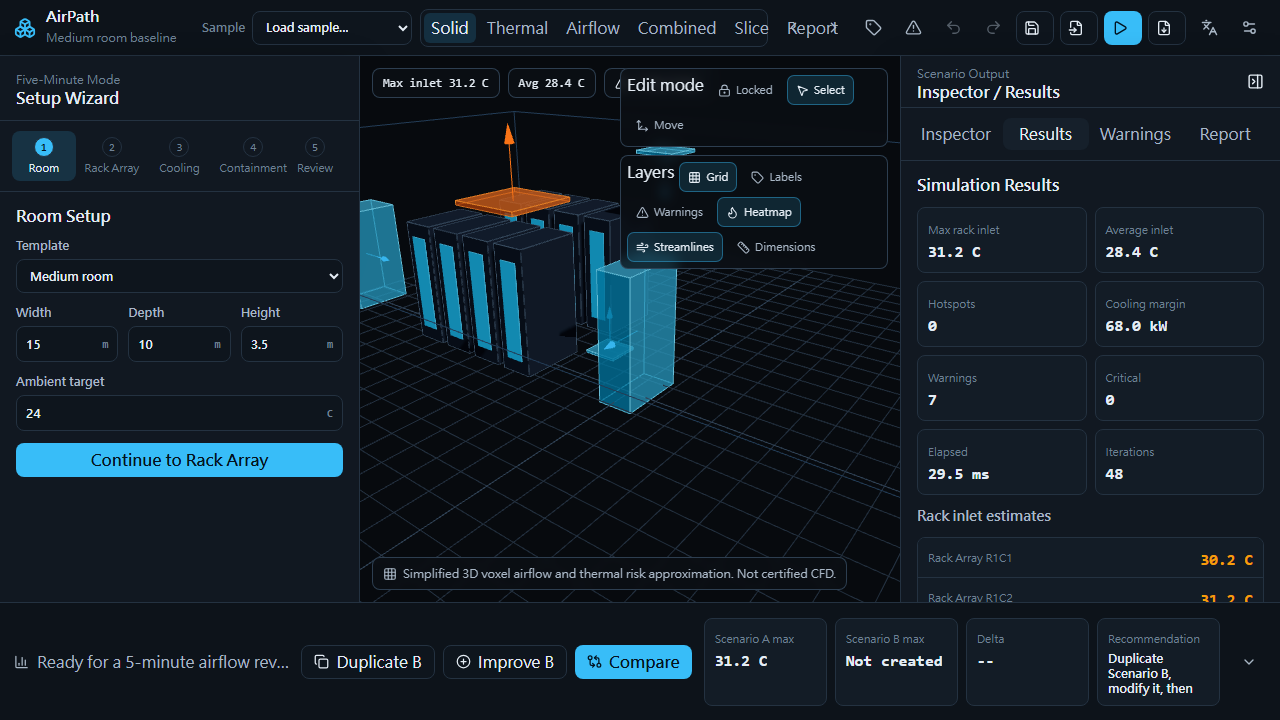
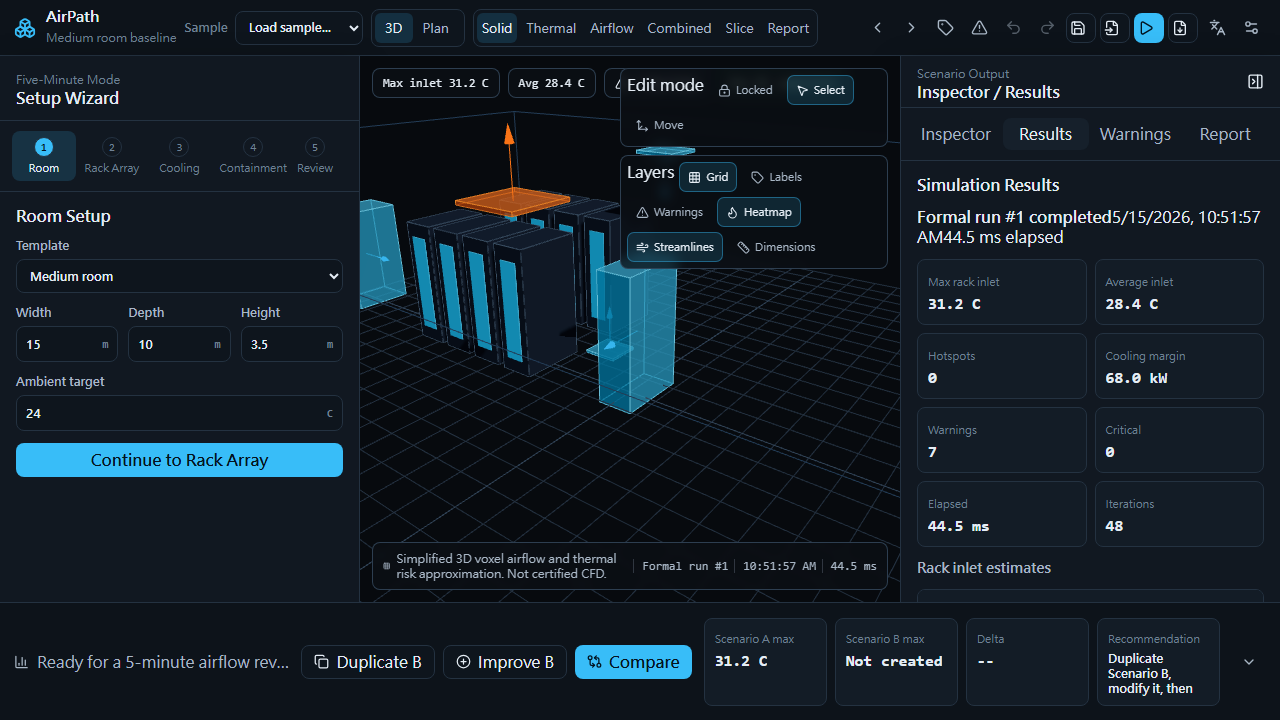
Document v0.5 evidence and handoff

diff --git a/engineering-memos/024_v0_5_case_matrix.md b/engineering-memos/024_v0_5_case_matrix.md
@@ -7,45 +7,47 @@ Area: Evidence / Browser Acceptance / Product QA
 
 ## 1. Purpose
 
-This matrix defines the v0.5 evidence cases for layout authoring, rack semantics, simulation trust, slice heatmap, and thermal visualization. Cases must be operated through the UI where feasible, with screenshots captured under `engineering-memos/screenshots/v0_5/`.
+This matrix defines and records the v0.5 evidence cases for layout authoring, rack semantics, simulation trust, slice heatmap, and thermal visualization. Cases were operated through the UI with Playwright fallback browser acceptance, with screenshots captured under `engineering-memos/screenshots/v0_5/`.
 
 ## 2. Required Case Matrix
 
 | Case | Name | User Goal | Expected Evidence | Status |
 |---|---|---|---|---|
-| 01 | Simulation dirty state after rack move | Move a rack after a formal simulation | Results become stale until formal simulation is rerun | Planned |
-| 02 | Rack front/rear orientation | Inspect rack inlet/exhaust direction | Front/rear indicators are visible in Plan View and 3D View | Planned |
-| 03 | Back-to-back rack rows | Detect central hot aisle | Auto-detection marks middle aisle as hot | Planned |
-| 04 | Face-to-face rack rows | Detect central cold aisle | Auto-detection marks middle aisle as cold | Planned |
-| 05 | Plan View box-select and group move | Select multiple racks and move as group | Group selection and moved rack positions are visible | Planned |
-| 06 | Mirror selected rack row | Create symmetric row quickly | Mirrored row appears with expected orientation option | Planned |
-| 07 | Convert rack to in-row cooling | Replace selected rack slot with in-row cooling | Cooling object occupies same footprint and appears in simulation/report | Planned |
-| 08 | Slice heatmap XY | Show horizontal thermal distribution | XY slice plane uses temperature field and shared palette | Planned |
-| 09 | Slice heatmap XZ or YZ | Show vertical thermal distribution | Vertical slice shows thermal distribution and label | Planned |
-| 10 | Five-minute central hot aisle workflow | Build and simulate central hot aisle quickly | Room, rack row, mirror, hot aisle detection, containment, run, review | Planned |
-| 11 | Thermal palette switching | Switch between supported palettes | CFD Classic, Thermal Professional, High Contrast, Dark View Optimized visible | Planned |
-| 12 | Stepped band mode | Make temperature zones readable as blocks | Stepped thermal bands and aligned legend are visible | Planned |
-| 13 | Manual min/max temperature range | Lock comparison scale | Manual range indicator and min/max values visible | Planned |
-| 14 | Screen-space bottom colorbar | Keep legend fixed in viewport | Bottom colorbar remains fixed and readable | Planned |
-| 15 | Screen-space right colorbar | Move legend to right side | Right colorbar remains fixed and readable | Planned |
-| 16 | Slice heatmap with colorbar | Use same palette/range in slice | Slice and colorbar agree on palette/range | Planned |
-| 17 | Report screenshot with colorbar | Export report-ready evidence | Report thermal screenshot includes professional fixed thermal legend | Planned |
+| 01 | Simulation dirty state after rack move | Move a rack after a formal simulation | Results become stale until formal simulation is rerun | Pass |
+| 02 | Rack front/rear orientation | Inspect rack inlet/exhaust direction | Front/rear indicators are visible in Plan View and 3D View | Pass |
+| 03 | Back-to-back rack rows | Detect central hot aisle | Auto-detection marks middle aisle as hot | Pass |
+| 04 | Face-to-face rack rows | Detect central cold aisle | Auto-detection marks middle aisle as cold | Pass |
+| 05 | Plan View box-select and group move | Select multiple racks and move as group | Group selection and moved rack positions are visible | Pass |
+| 06 | Mirror selected rack row | Create symmetric row quickly | Mirrored row appears with expected orientation option | Pass |
+| 07 | Convert rack to in-row cooling | Replace selected rack slot with in-row cooling | Cooling object occupies same footprint and appears in simulation/report | Pass |
+| 08 | Slice heatmap XY | Show horizontal thermal distribution | XY slice plane uses temperature field and shared palette | Pass |
+| 09 | Slice heatmap XZ or YZ | Show vertical thermal distribution | Vertical slice shows thermal distribution and label | Pass |
+| 10 | Five-minute central hot aisle workflow | Build and simulate central hot aisle quickly | Room, rack row, mirror, hot aisle detection, containment, run, review | Pass |
+| 11 | Thermal palette switching | Switch between supported palettes | CFD Classic, Thermal Professional, High Contrast, Dark View Optimized visible | Pass |
+| 12 | Stepped band mode | Make temperature zones readable as blocks | Stepped thermal bands and aligned legend are visible | Pass |
+| 13 | Manual min/max temperature range | Lock comparison scale | Manual range indicator and min/max values visible | Pass |
+| 14 | Screen-space bottom colorbar | Keep legend fixed in viewport | Bottom colorbar remains fixed and readable | Pass |
+| 15 | Screen-space right colorbar | Move legend to right side | Right colorbar remains fixed and readable | Pass |
+| 16 | Slice heatmap with colorbar | Use same palette/range in slice | Slice and colorbar agree on palette/range | Pass |
+| 17 | Report screenshot with colorbar | Export report-ready evidence | Report thermal screenshot includes professional fixed thermal legend | Pass |
 
 ## 3. Defect Log
 
 | ID | Case | Severity | Finding | Fix | Retest |
 |---|---|---|---|---|---|
-| TBD | TBD | TBD | Implementation not started | TBD | TBD |
+| V05-01 | 01-17 | Major | Adding the Plan View switch made the topbar too wide at the Playwright desktop viewport and old view-mode buttons were intercepted by action icons | Shortened workspace labels, tightened topbar responsive spacing, and constrained action button widths | `npm run acceptance` passed |
+| V05-02 | 03 | Major | Plan authoring toolbar was blocked by the 3D viewport layer controls while Plan View was active | Hid the 3D viewport tools/metrics/footer in Plan View and kept Plan View's own toolbar active | `case03_back_to_back_hot_aisle.png` refreshed |
+| V05-03 | 03, 15 | Minor | Plan stale banner and right-side colorbar competed with authoring/legend controls | Repositioned Plan stale banner to the lower plan stage, reduced plan labels, and moved the right colorbar lower with compact right-mode text | v0.5 screenshots refreshed |
 
 ## 4. Evidence Paths
 
-Expected screenshot folder:
+Screenshot folder:
 
 ```txt
 engineering-memos/screenshots/v0_5/
 ```
 
-Expected screenshot names will follow:
+Captured screenshots:
 
 - `case01_dirty_state.png`
 - `case02_rack_front_rear.png`
@@ -65,6 +67,6 @@ Expected screenshot names will follow:
 - `case16_slice_colorbar.png`
 - `case17_report_colorbar.png`
 
-## 5. Initial Status
+## 5. Execution Status
 
-Status: Planned. Execution and evidence capture will be updated after implementation and browser acceptance.
+Status: Pass. All 17 required cases were executed through Playwright browser acceptance and screenshot evidence was refreshed.

diff --git a/engineering-memos/025_v0_5_handoff.md b/engineering-memos/025_v0_5_handoff.md
@@ -1,0 +1,104 @@
+# Engineering Memo: v0.5 Layout Authoring + Simulation Trust + Thermal Visualization Handoff
+
+Version: v0.5
+Date: 2026-05-15
+Author: Codex
+Area: Product Handoff / Validation / Acceptance
+
+## 1. Summary
+
+AirPath v0.5 upgrades the product core toward the five-minute pre-sales promise without expanding scope or making certified CFD claims.
+
+Implemented:
+
+- Plan View for top-down CAD-like room layout editing.
+- Box selection, group move, snap-based XY floor gizmo, mirror tools, central hot/cold aisle creation, and rack-to-in-row-cooling conversion.
+- Rack front/rear inlet/exhaust semantics and visual indicators.
+- Hot/cold aisle detection for back-to-back and face-to-face rack rows, plus one-click detected-aisle containment generation.
+- Formal simulation trust state: run id, status, timestamp, elapsed time, stale-result banner, and rerun clearing.
+- Solver rack inlet/exhaust sampling refinement for X- and Z-oriented racks.
+- Shared thermal palette/range system with CFD Classic, Thermal Professional, High Contrast, and Dark View Optimized palettes.
+- Smooth and stepped thermal color modes.
+- Auto/manual temperature scale, min/max, critical threshold, contrast, opacity, and colorbar position controls.
+- Slice heatmap plane using the simulation temperature field and shared thermal settings.
+- Fixed screen-space colorbar overlay and report screenshot colorbar compositing.
+- v0.5 Playwright case matrix covering all 17 requested evidence cases.
+
+## 2. Validation Results
+
+Commands passed:
+
+- `npm run test`
+- `npm run lint`
+- `npm run build`
+- `npm run acceptance`
+
+Acceptance detail:
+
+- `tests/acceptance.spec.ts`: pass
+- `tests/v04-quality.spec.ts`: pass
+- `tests/v05-layout-authoring.spec.ts`: pass
+
+Latest full acceptance result: 3 Playwright tests passed.
+
+## 3. Evidence
+
+Screenshot folder:
+
+```txt
+engineering-memos/screenshots/v0_5/
+```
+
+Key screenshots:
+
+- `case01_dirty_state.png`
+- `case03_back_to_back_hot_aisle.png`
+- `case04_face_to_face_cold_aisle.png`
+- `case05_plan_box_select_group_move.png`
+- `case07_convert_inrow.png`
+- `case08_slice_xy_heatmap.png`
+- `case09_slice_vertical_heatmap.png`
+- `case10_five_minute_hot_aisle.png`
+- `case11_palette_switching.png`
+- `case12_stepped_bands.png`
+- `case13_manual_range.png`
+- `case14_bottom_colorbar.png`
+- `case15_right_colorbar.png`
+- `case17_report_colorbar_full.png`
+
+## 4. Quality Gate Review
+
+| Requirement | Status |
+|---|---|
+| Simulation rerun trust | Pass |
+| Rack front/rear semantics | Pass |
+| Hot/cold aisle auto-detection | Pass |
+| Plan View | Pass |
+| Box selection | Pass |
+| Mirror workflow | Pass |
+| Rack-to-inrow conversion | Pass |
+| Slice heatmap plane | Pass |
+| Thermal palette controls | Pass |
+| Stepped band mode | Pass |
+| Manual min/max temperature scale | Pass |
+| Fixed screen-space colorbar | Pass |
+| Report screenshot thermal legend | Pass |
+| v0.5 case matrix documented | Pass |
+| Build/test/lint/acceptance | Pass |
+
+## 5. Accepted Limitations
+
+- Aisle detection is deterministic geometry-based assistance, not certified airflow classification. It handles the intended back-to-back and face-to-face rack row workflows and should be reviewed by the user on irregular layouts.
+- Plan View is intentionally a simple room-layout editor, not a full CAD system. It supports the required fast pre-sales actions but does not include custom line drawing or multi-room modeling.
+- Slice position is controlled through axis buttons and a slider. Direct slice-plane drag remains out of scope for this pass because the v0.5 requirement was met with visible thermal slice planes, axis selection, and position controls.
+- Dense Plan View rack labels can still compress in very tight rack arrays. The selected objects and right inspector remain readable, and this is minor compared with the previous blocker-level layout-authoring gaps.
+
+## 6. Claim Boundary
+
+No certified CFD, construction approval, commissioning, compliance, OpenFOAM, backend account, cloud database, BIM/Revit, or multi-room scope was added. Model assumptions and disclaimer remain intact.
+
+## 7. Handoff Status
+
+Status: v0.5 accepted.
+
+All required v0.5 items were implemented or documented as minor accepted limitations. No blocker or major UX issue remains after rerun.
